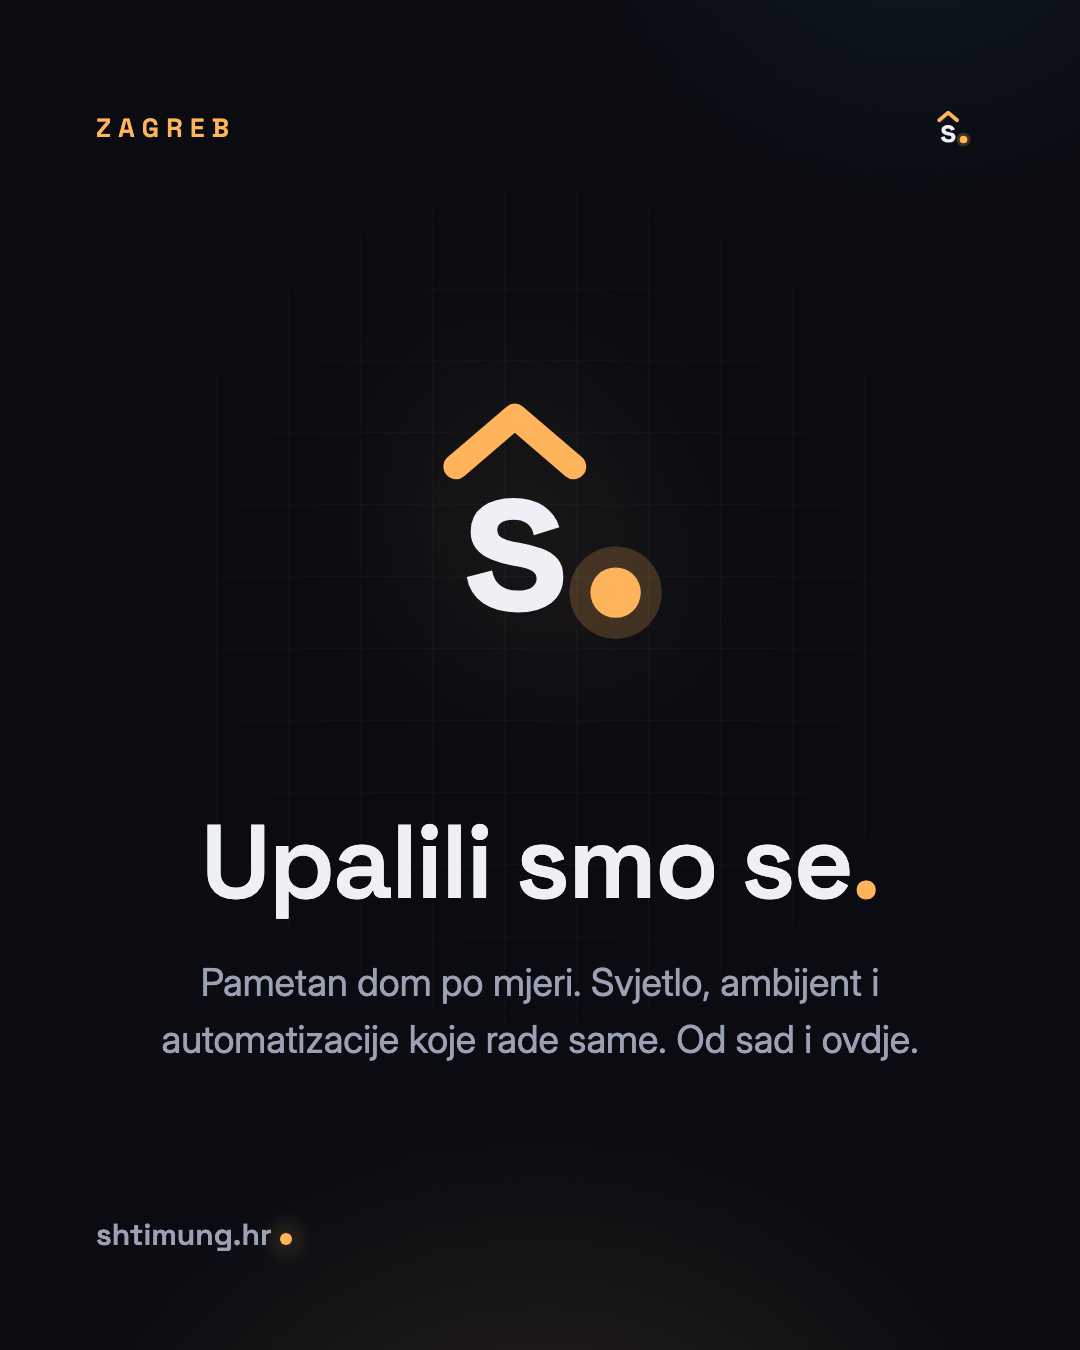
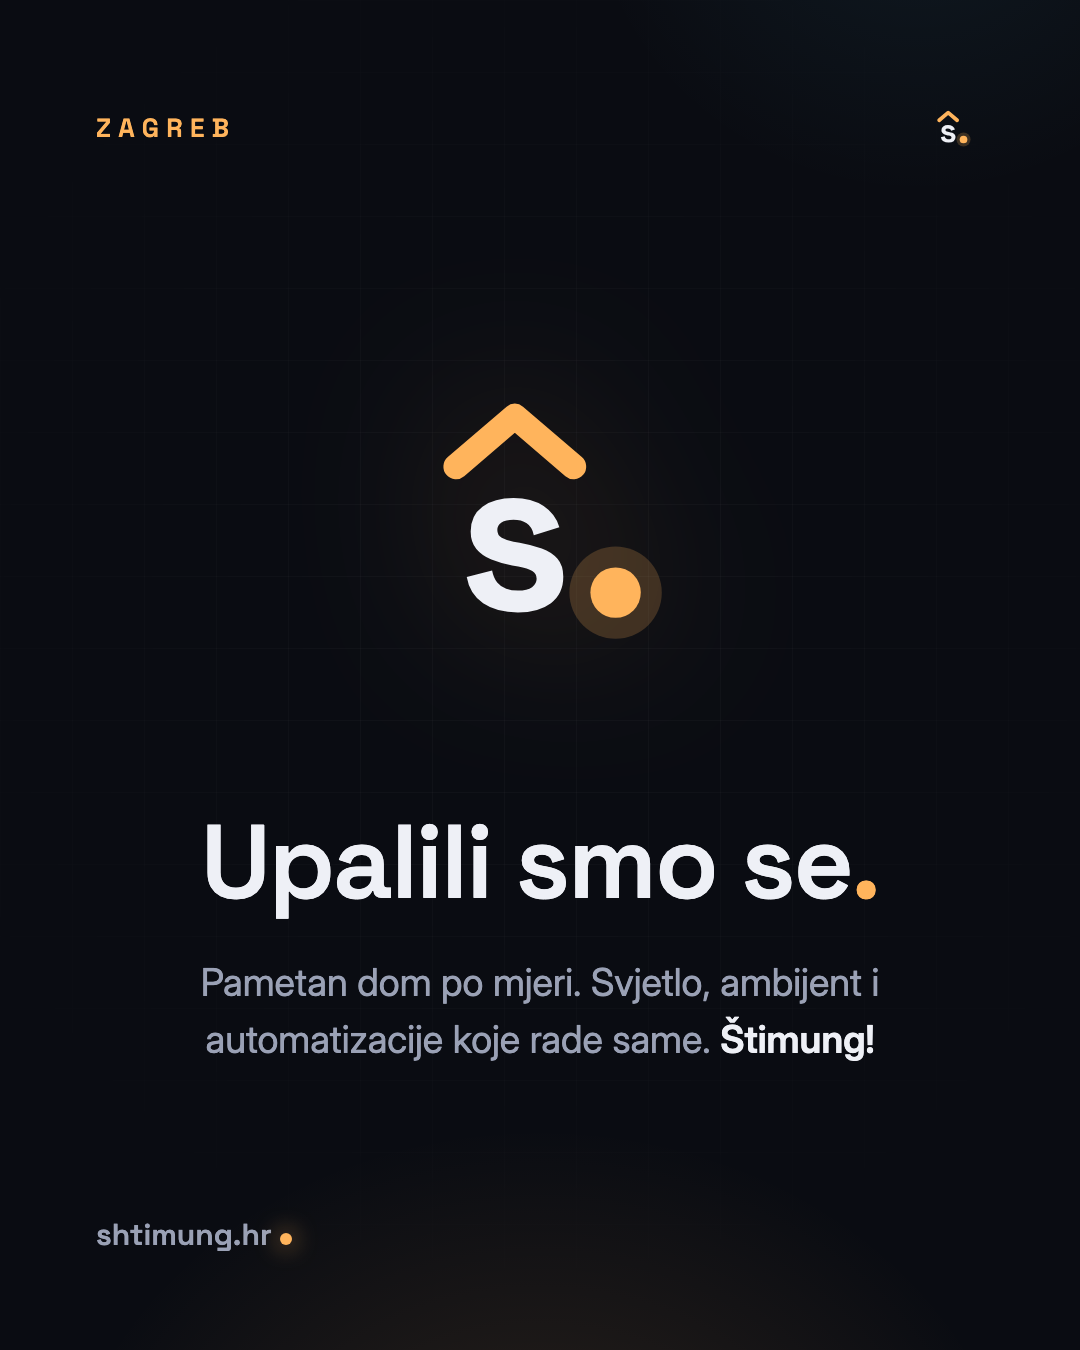
Launch post: copy završava sa "Štimung!"

Changed region(s): [[0.1528, 0.7467, 0.8556, 0.8089]]

diff --git a/scripts/build-social.py b/scripts/build-social.py
@@ -93,7 +93,7 @@ POSTS = {
         "Zagreb", f"""
         <img class="big-logo" src="{LOGO}" style="margin-bottom:80px">
         <h1>Upalili smo se<span class="amber">.</span></h1>
-        <p class="sub">Pametan dom po mjeri. Svjetlo, ambijent i automatizacije koje rade same. Od sad i ovdje.</p>
+        <p class="sub">Pametan dom po mjeri. Svjetlo, ambijent i automatizacije koje rade same. <strong>Štimung!</strong></p>
         """, center=True),
 
     # ---- 02: brand priča (carousel 3) ----
